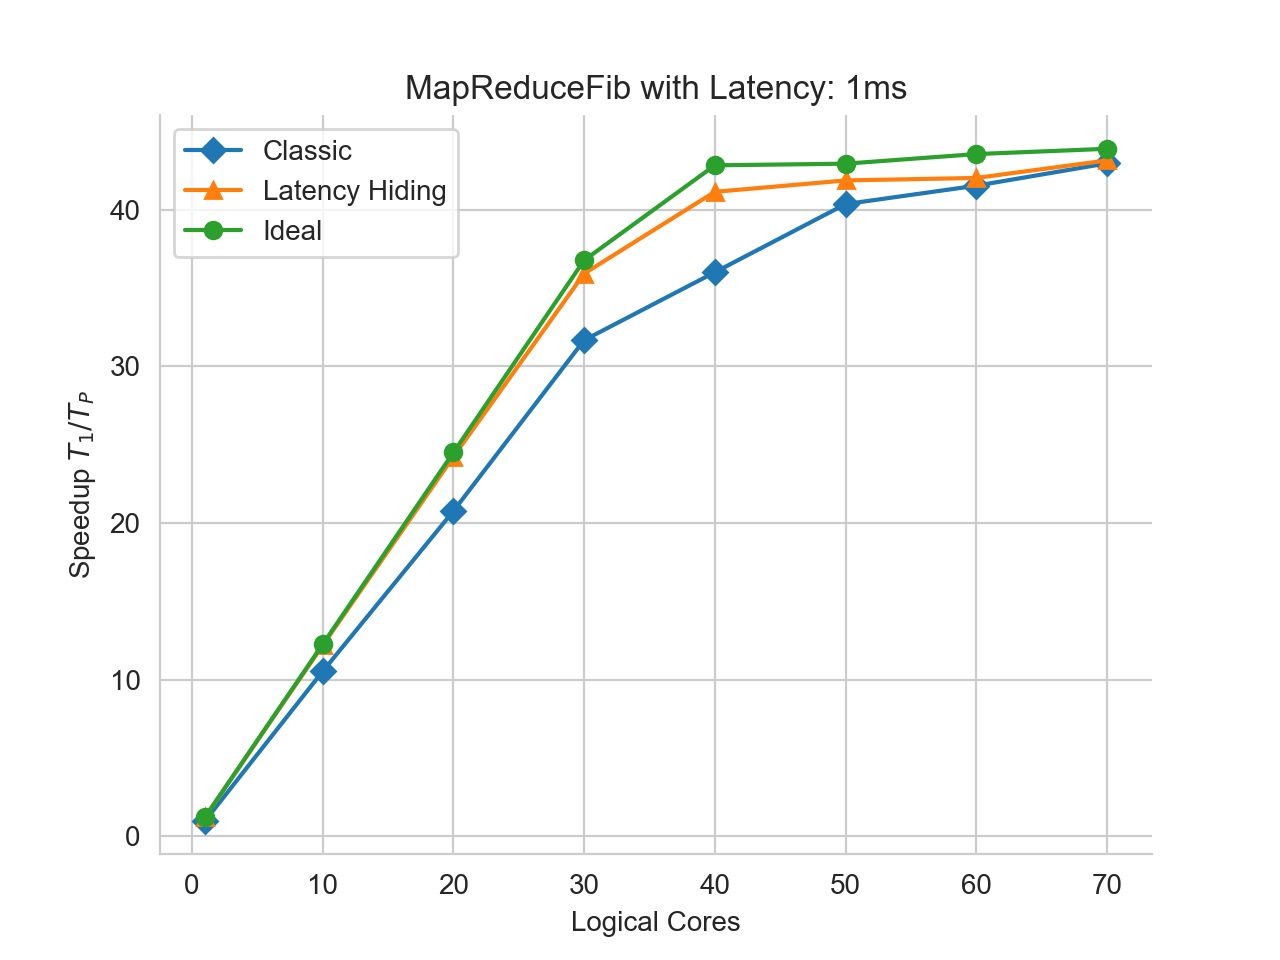
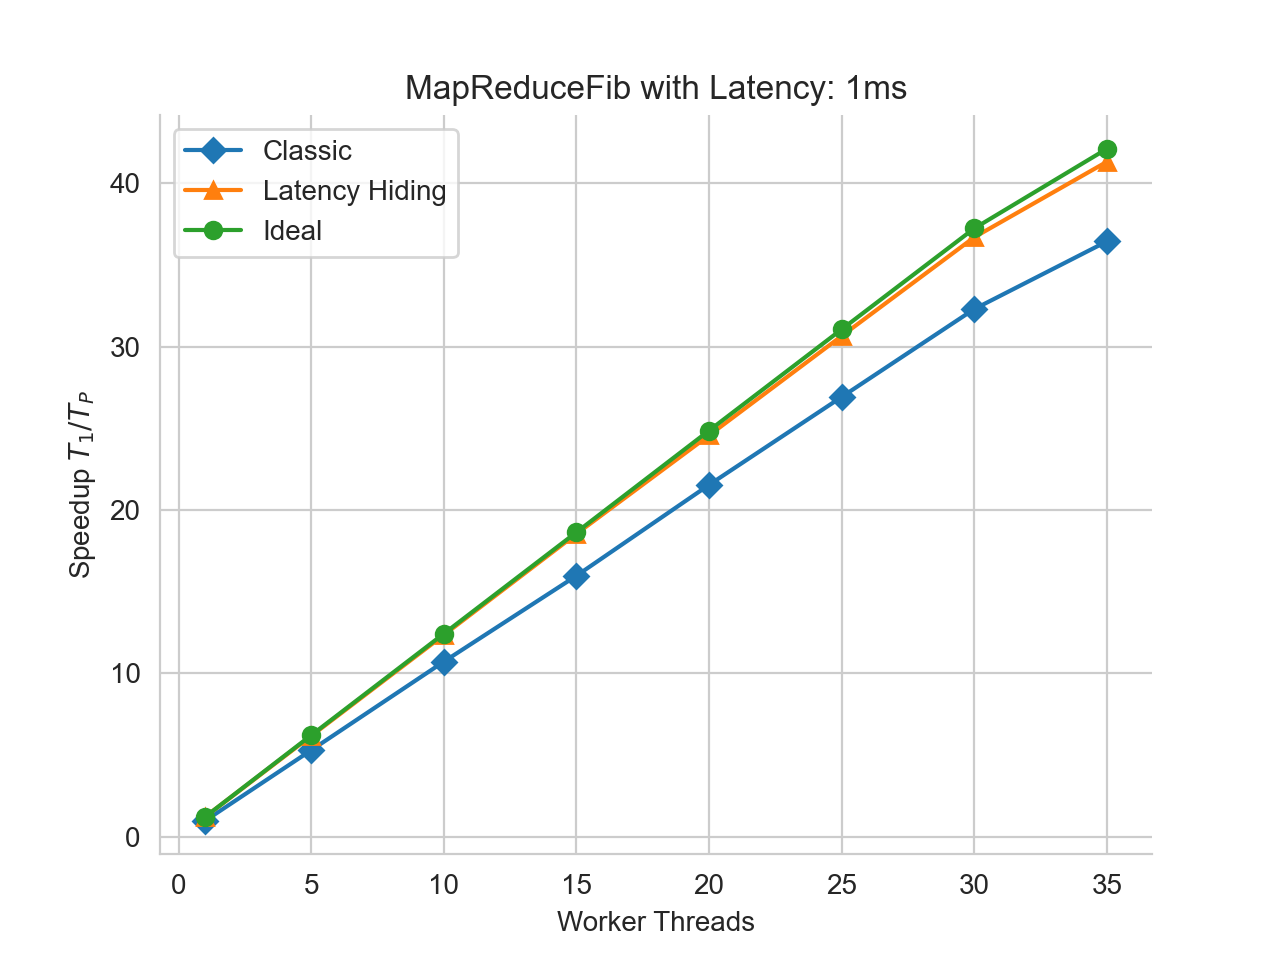
MapReduceFib speedups up to 35 worker threads

diff --git a/plotting/map_reduce.py b/plotting/map_reduce.py
@@ -13,7 +13,7 @@ schedulers = map(lambda s: Path(os.path.join(bench_group, s)), ['Serial', 'Class
 
 data = [] # list of observation dict rows to be put into a pandas df
 
-for scheduler_path in os.scandir(bench_group):
+for scheduler_path in filter(lambda dir_entry: dir_entry.name != 'report', os.scandir(bench_group)):
     for bench in filter(lambda dir_entry: dir_entry.name != 'report', os.scandir(scheduler_path)):
         observation = {} # row in pandas df
         observation['Scheduler'] = scheduler_path.name
@@ -32,7 +32,7 @@ for scheduler_path in os.scandir(bench_group):
             bench_results = json.load(f)
             observation['Wallclock'] = bench_results['mean']['point_estimate']
 
-        if observation['Cores'] == 140:
+        if observation['Cores'] > 35:
             continue
         elif observation['Fib N'] == 35:
             continue
@@ -70,7 +70,7 @@ for latency in latencies:
 
         plt.title(f'MapReduceFib with Latency: {latency}ms')
         plt.legend(loc='best')
-        plt.xlabel('Logical Cores')
+        plt.xlabel('Worker Threads')
         plt.ylabel(r'Speedup $T_1 / T_P$')
         sns.despine()
         plt.savefig(f'plotting/plots/map_reduce_plot_latency_{latency}.png', dpi=200)
